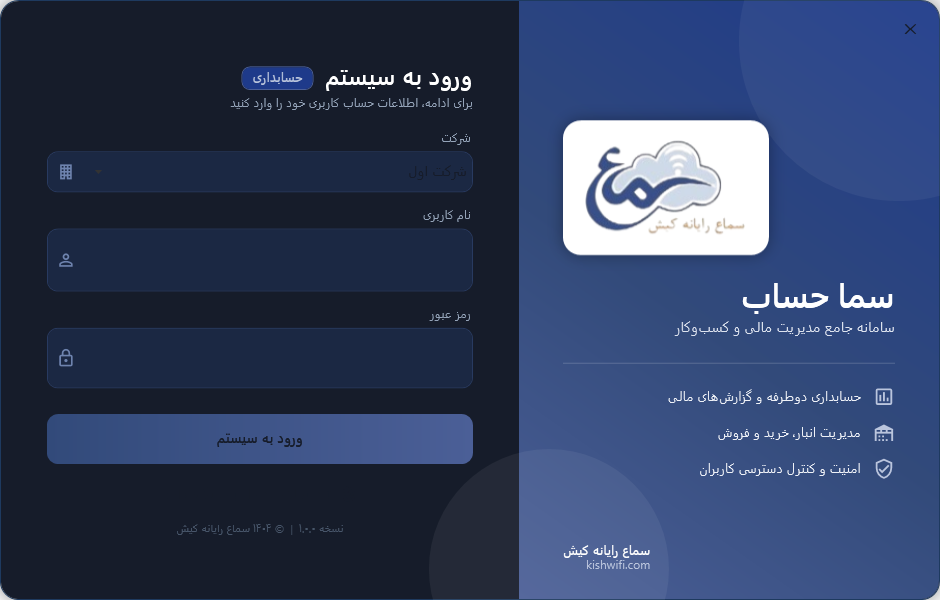
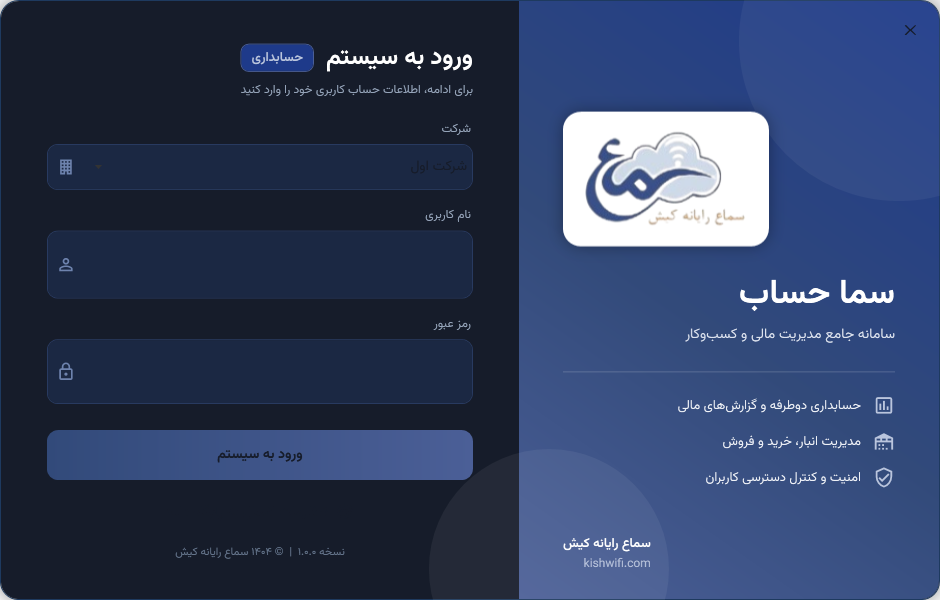
fix(ui): T9 — خوانایی فرمِ لاگین (کمبوی شرکت + فوتر)
- کمبوی «شرکت»: ItemContainerStyle با Foregroundِ تیره (#1B2843) تا آیتمهای
  لیستِ بازشو روی پاپآپِ روشن خوانا باشند (نه سفیدِ ناخوانا).
- فوترِ نسخه #475569→#64748B (کنتراستِ بهتر).
رندرِ SAMA_SHOT_LOGIN تأیید شد. build سبز.

diff --git a/src/SamaHesab.WPF/Views/Shell/LoginWindow.xaml b/src/SamaHesab.WPF/Views/Shell/LoginWindow.xaml
@@ -120,7 +120,15 @@
                             <ComboBox Background="Transparent" BorderThickness="0" Foreground="White"
                                       ItemsSource="{Binding Companies}" DisplayMemberPath="Name" SelectedValuePath="Id"
                                       SelectedValue="{Binding SelectedCompanyId}" Padding="4,11"
-                                      FontFamily="{StaticResource VazirFont}"/>
+                                      FontFamily="{StaticResource VazirFont}">
+                                <!-- T9: آیتمهای لیستِ بازشو روی پاپآپِ روشن، متنِ تیره تا خوانا باشند (نه سفیدِ ناخوانا) -->
+                                <ComboBox.ItemContainerStyle>
+                                    <Style TargetType="ComboBoxItem">
+                                        <Setter Property="Foreground" Value="#1B2843"/>
+                                        <Setter Property="FontFamily" Value="{StaticResource VazirFont}"/>
+                                    </Style>
+                                </ComboBox.ItemContainerStyle>
+                            </ComboBox>
                         </DockPanel>
                     </Border>
 
@@ -189,7 +197,7 @@
                             Background="Transparent" Foreground="#6E83AE" BorderThickness="0" FontSize="13" Cursor="Hand"
                             FontFamily="{StaticResource VazirFont}" Click="ConnectionSettings_Click"/>
 
-                    <TextBlock Text="نسخه ۱.۰.۰  |  © ۱۴۰۴ سماع رایانه کیش" Foreground="#475569"
+                    <TextBlock Text="نسخه ۱.۰.۰  |  © ۱۴۰۴ سماع رایانه کیش" Foreground="#64748B"
                                FontFamily="{StaticResource VazirFont}" FontSize="11"
                                HorizontalAlignment="Center" Margin="0,14,0,0"/>
                 </StackPanel>
